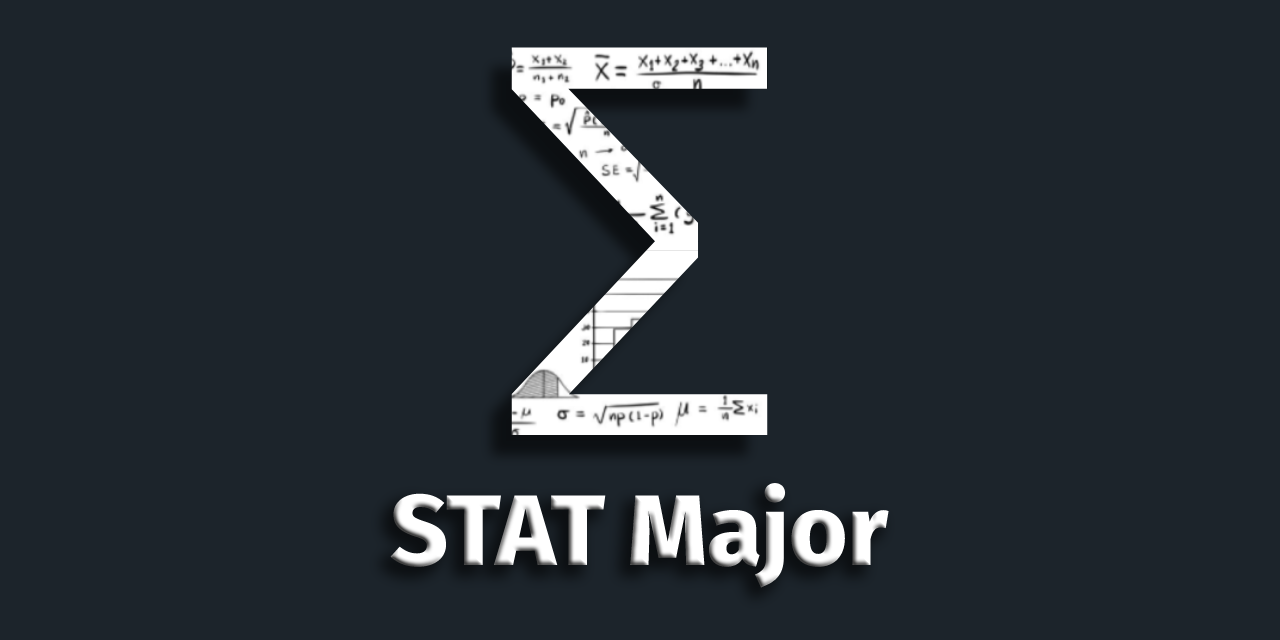
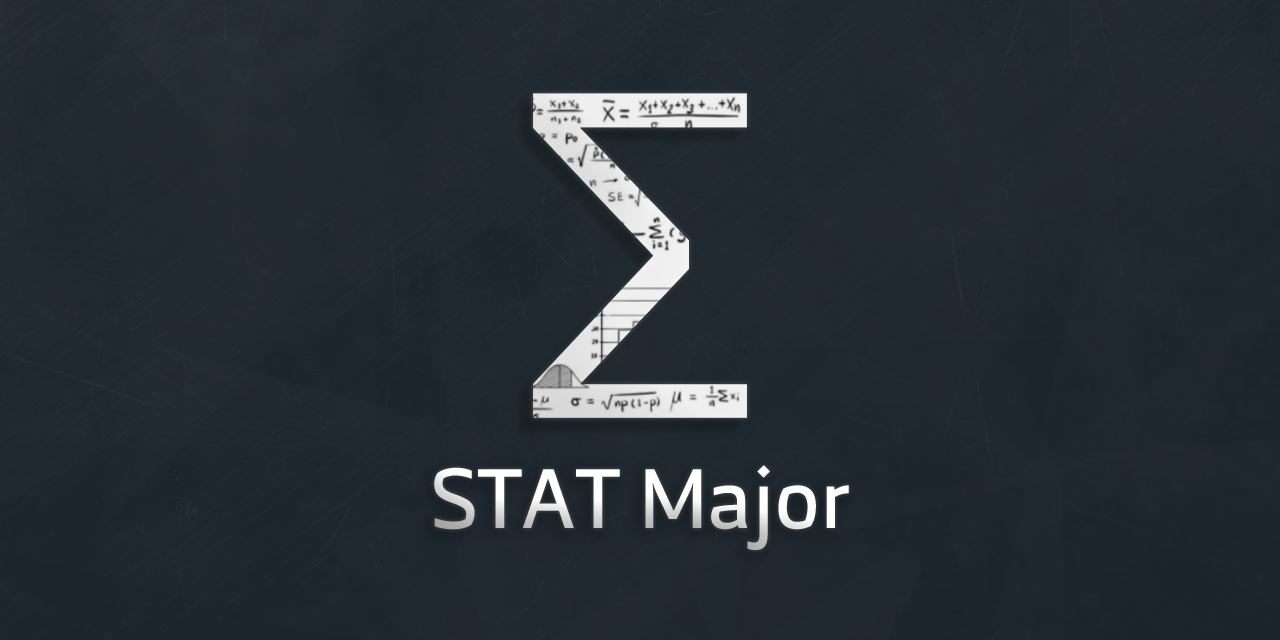
Update README.md
Add image to it

Changed region(s): [[0.2812, 0.0625, 0.7188, 0.9375]]

diff --git a/README.md b/README.md
@@ -1,6 +1,8 @@
 STAT Major
 ============================
 
+![Alt text](media/Banner.png "STAT Major")
+
 This project focuses on assisting undergraduate students with a major in statistics  :D
 
 ### Project map:
